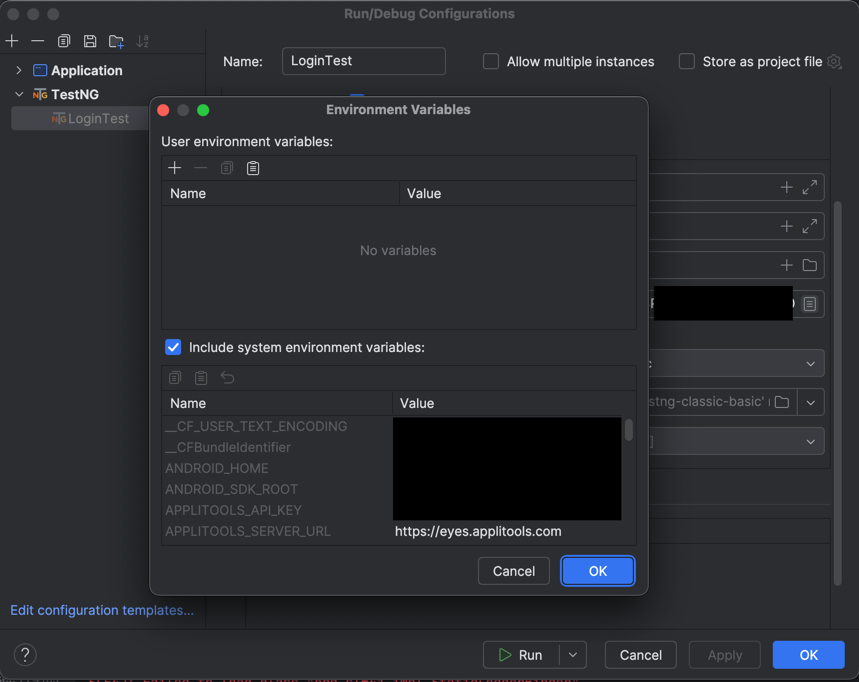
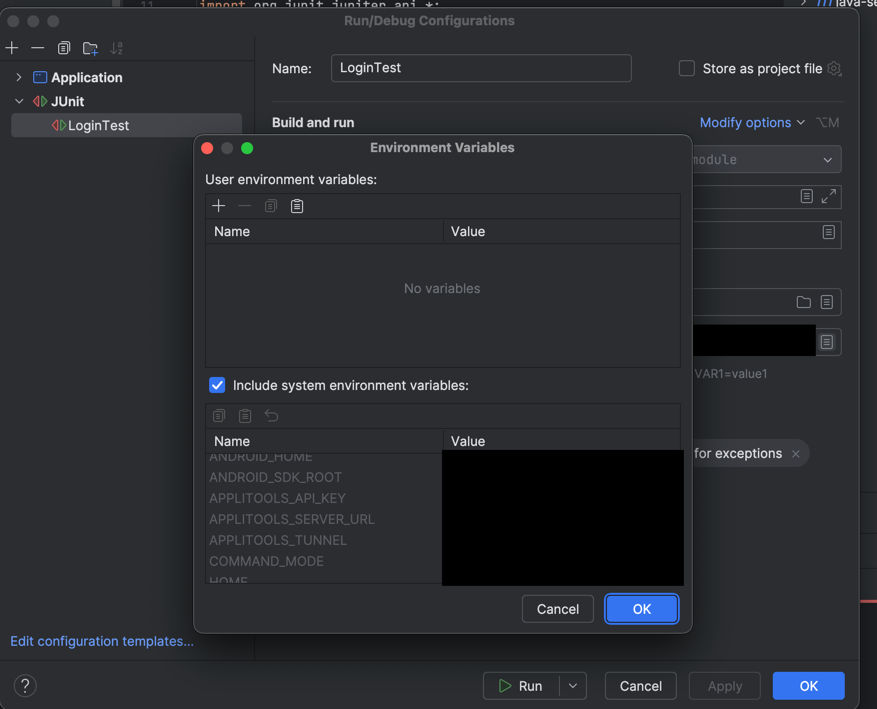
Initial Commit

diff --git a/src/test/java/tests/LoginTest.java b/src/test/java/tests/LoginTest.java
@@ -1,74 +1,110 @@
 package tests;
 
+//Fallback, vanilla Java Applitools
+import com.applitools.eyes.BatchInfo;
 import com.applitools.eyes.RectangleSize;
 import com.applitools.eyes.selenium.ClassicRunner;
 import com.applitools.eyes.selenium.Configuration;
 import com.applitools.eyes.selenium.Eyes;
+import com.applitools.eyes.selenium.StitchMode;
 import com.applitools.eyes.selenium.fluent.Target;
+
+import org.junit.jupiter.api.*;
+import org.junit.jupiter.api.BeforeEach;
+import org.junit.jupiter.api.AfterEach;
+import org.junit.jupiter.api.Test;
 
 import org.openqa.selenium.By;
 import org.openqa.selenium.WebDriver;
 import org.openqa.selenium.chrome.ChromeDriver;
 import org.openqa.selenium.chrome.ChromeOptions;
 
-import org.testng.annotations.*;
-
 public class LoginTest {
 
     WebDriver driver;
     Eyes eyes;
 
-    @BeforeMethod
-    public void setup() {
+    @BeforeEach
+    void setup() {
 
         boolean isHeadless = Boolean.parseBoolean(
-                System.getProperty("headless", "false")
+                System.getProperty("headless", "true")
         );
 
         ChromeOptions options = new ChromeOptions();
 
         if (isHeadless) {
             options.addArguments("--headless=new");
+            System.out.println("Running in HEADLESS mode");
+        } else {
+            System.out.println("Running in HEADED mode");
         }
 
         driver = new ChromeDriver(options);
 
         eyes = new Eyes(new ClassicRunner());
+        BatchInfo batch = new BatchInfo("LoginTest | Classic JUnit Java");
+        //batch.setId(System.getenv("APPLITOOLS_BATCH_ID")); //For CI/CD grouping or batch notification
 
         Configuration config = new Configuration();
         config.setApiKey(System.getenv("APPLITOOLS_API_KEY"));
+        config.setBatch(batch);
+
+        //config.setBranchName("feature-login-flow-2"); //checkpoint branch, current test branch where results will be stored
+        //config.setParentBranchName("feature-login-flow"); //baseline branch, baseline source branch for comparison. If it does not exist then falls back to default branch
+
+        /*
+                First run (no baseline in your branch)
+                -> config.setParentBranchName("main");
+                -> Uses main’s baseline as reference
+                -> Creates a new baseline in feature-login-flow
+                -> If main branch does not exist, then compared against default
+
+
+                Subsequent runs
+                -> baseline already exists in feature-login-flow
+                -> It ignores parentBranchName
+                -> Compares against branch’s own baseline
+
+
+                For real workflow
+                --> First run on main
+                --> Then create feature branch
+                --> ensures proper baseline inheritance
+         */
 
         eyes.setConfiguration(config);
+
+        // eyes.setStitchMode(StitchMode.CSS); // CSS Scroll
+        // eyes.setStitchMode(StitchMode.SCROLL); //Manual Scroll
+        // eyes.setHostOS("Linux");
     }
 
     @Test
-    public void loginTest() {
+    void loginTest() {
 
         eyes.open(
                 driver,
                 "Applitools Demo App",
-                "Login Test (Classic)",
+                "Login Page Test",
                 new RectangleSize(1200, 800)
         );
 
         driver.get("https://demo.applitools.com/");
 
-        // Login page check
         eyes.check("Login Page", Target.window().fully());
 
-        // Perform login
         driver.findElement(By.id("username")).sendKeys("demo");
         driver.findElement(By.id("password")).sendKeys("demo123");
         driver.findElement(By.id("log-in")).click();
 
-        // Dashboard check
-        eyes.check("Dashboard Page", Target.window().fully());
+        eyes.check("User successfully logs in and dashboard is displayed", Target.window().fully());
 
         eyes.close();
     }
 
-    @AfterMethod
-    public void tearDown() {
+    @AfterEach
+    void tearDown() {
         if (eyes != null) {
             eyes.abortIfNotClosed();
         }

diff --git a/src/main/java/org/example/Main.java b/src/main/java/org/example/Main.java
@@ -1,4 +1,5 @@
 //Fallback, vanilla Java Applitools
+package org.example;
 import com.applitools.eyes.RectangleSize;
 import com.applitools.eyes.selenium.ClassicRunner;
 import com.applitools.eyes.selenium.Configuration;
